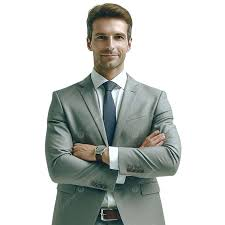
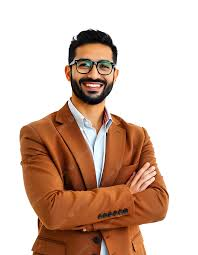
some update

diff --git a/style.css b/style.css
@@ -204,8 +204,8 @@ a{
     display: flex;
     justify-content: center;
     align-items: center;
-    width: 12vw;
-    height: 12vw;
+    width: 22vw;
+    height: 22vw;
     /* background: white; */
     border-radius: 50%;
     /* margin-left: 250px; */
@@ -216,8 +216,8 @@ a{
 .home_img .img_box::before,
 .home_img .img_box::after {
     content: "";
-    width: 180px;
-    height: 180px;
+    width: 280px;
+    height: 280px;
     position: absolute;
     background: conic-gradient(transparent, transparent, transparent, rgb(62, 243, 62));
     transform: rotate(0deg);
@@ -244,8 +244,8 @@ a{
 }
 
 .home_img .img_box .img_item img {
-    width: 95%;
-    top: 20px;
+    width: 100%;
+    /* top: 20px; */
     display: block;
     position: absolute;
     object-fit: cover;

diff --git a/index.html b/index.html
@@ -56,7 +56,7 @@
         <div class="home_img">
             <div class="img_box">
                 <div class="img_item">
-                    <img src="./imgs/imgs_man-removebg-preview.png" alt="">
+                    <img src="./imgs/images.jpg" alt="">
                 </div>
             </div>
         </div>
